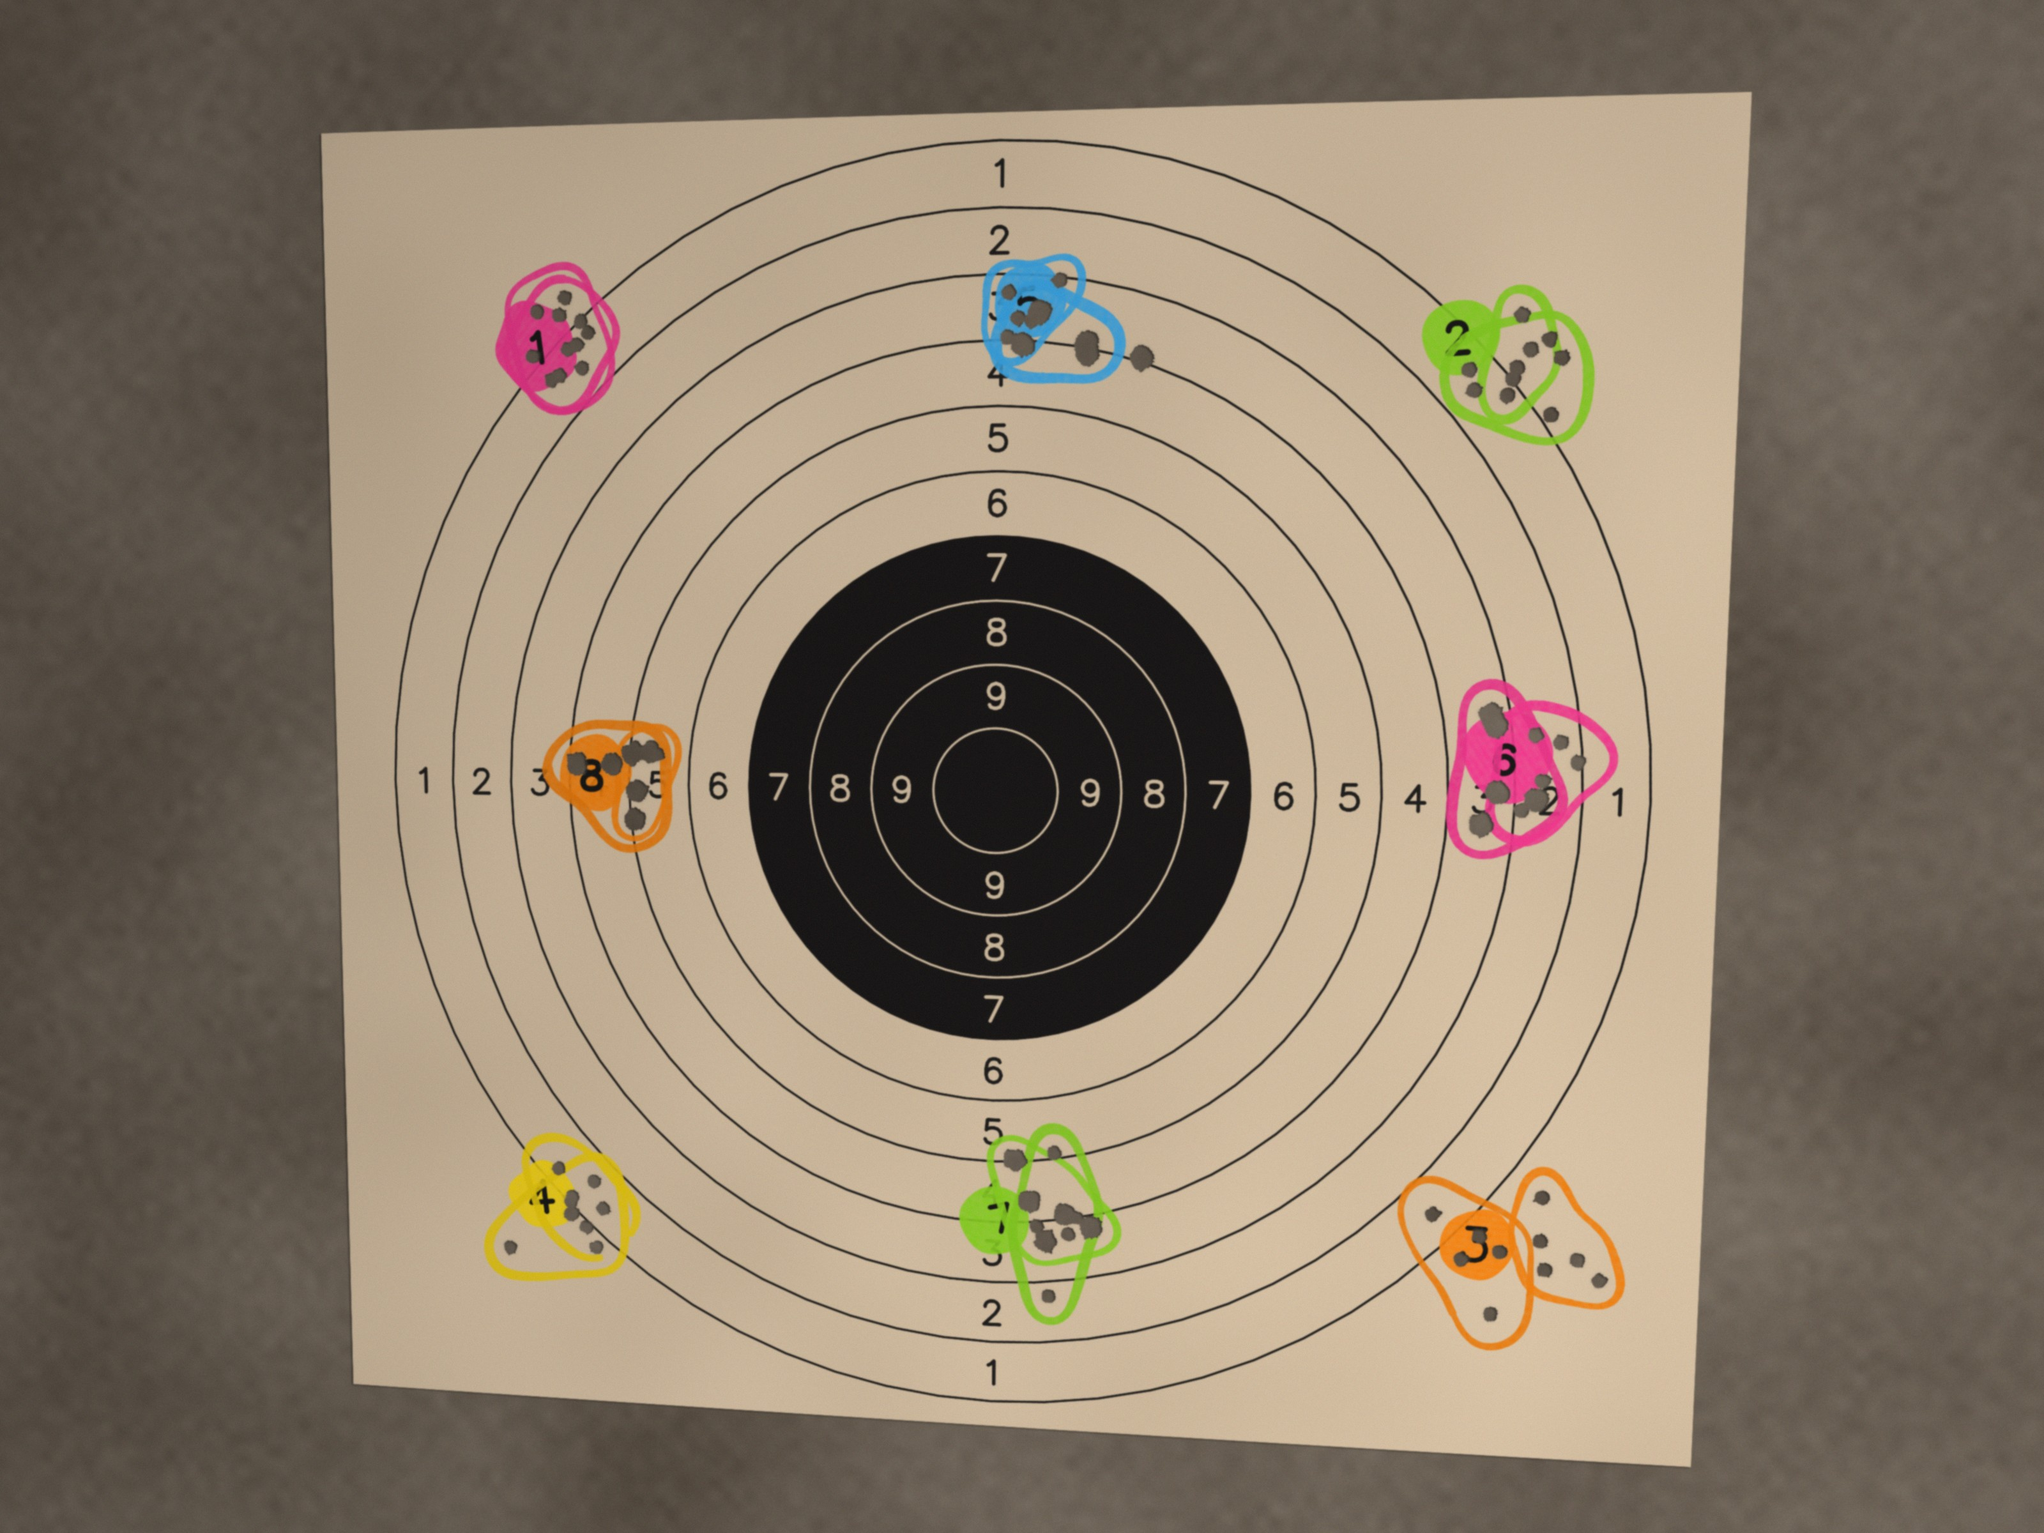
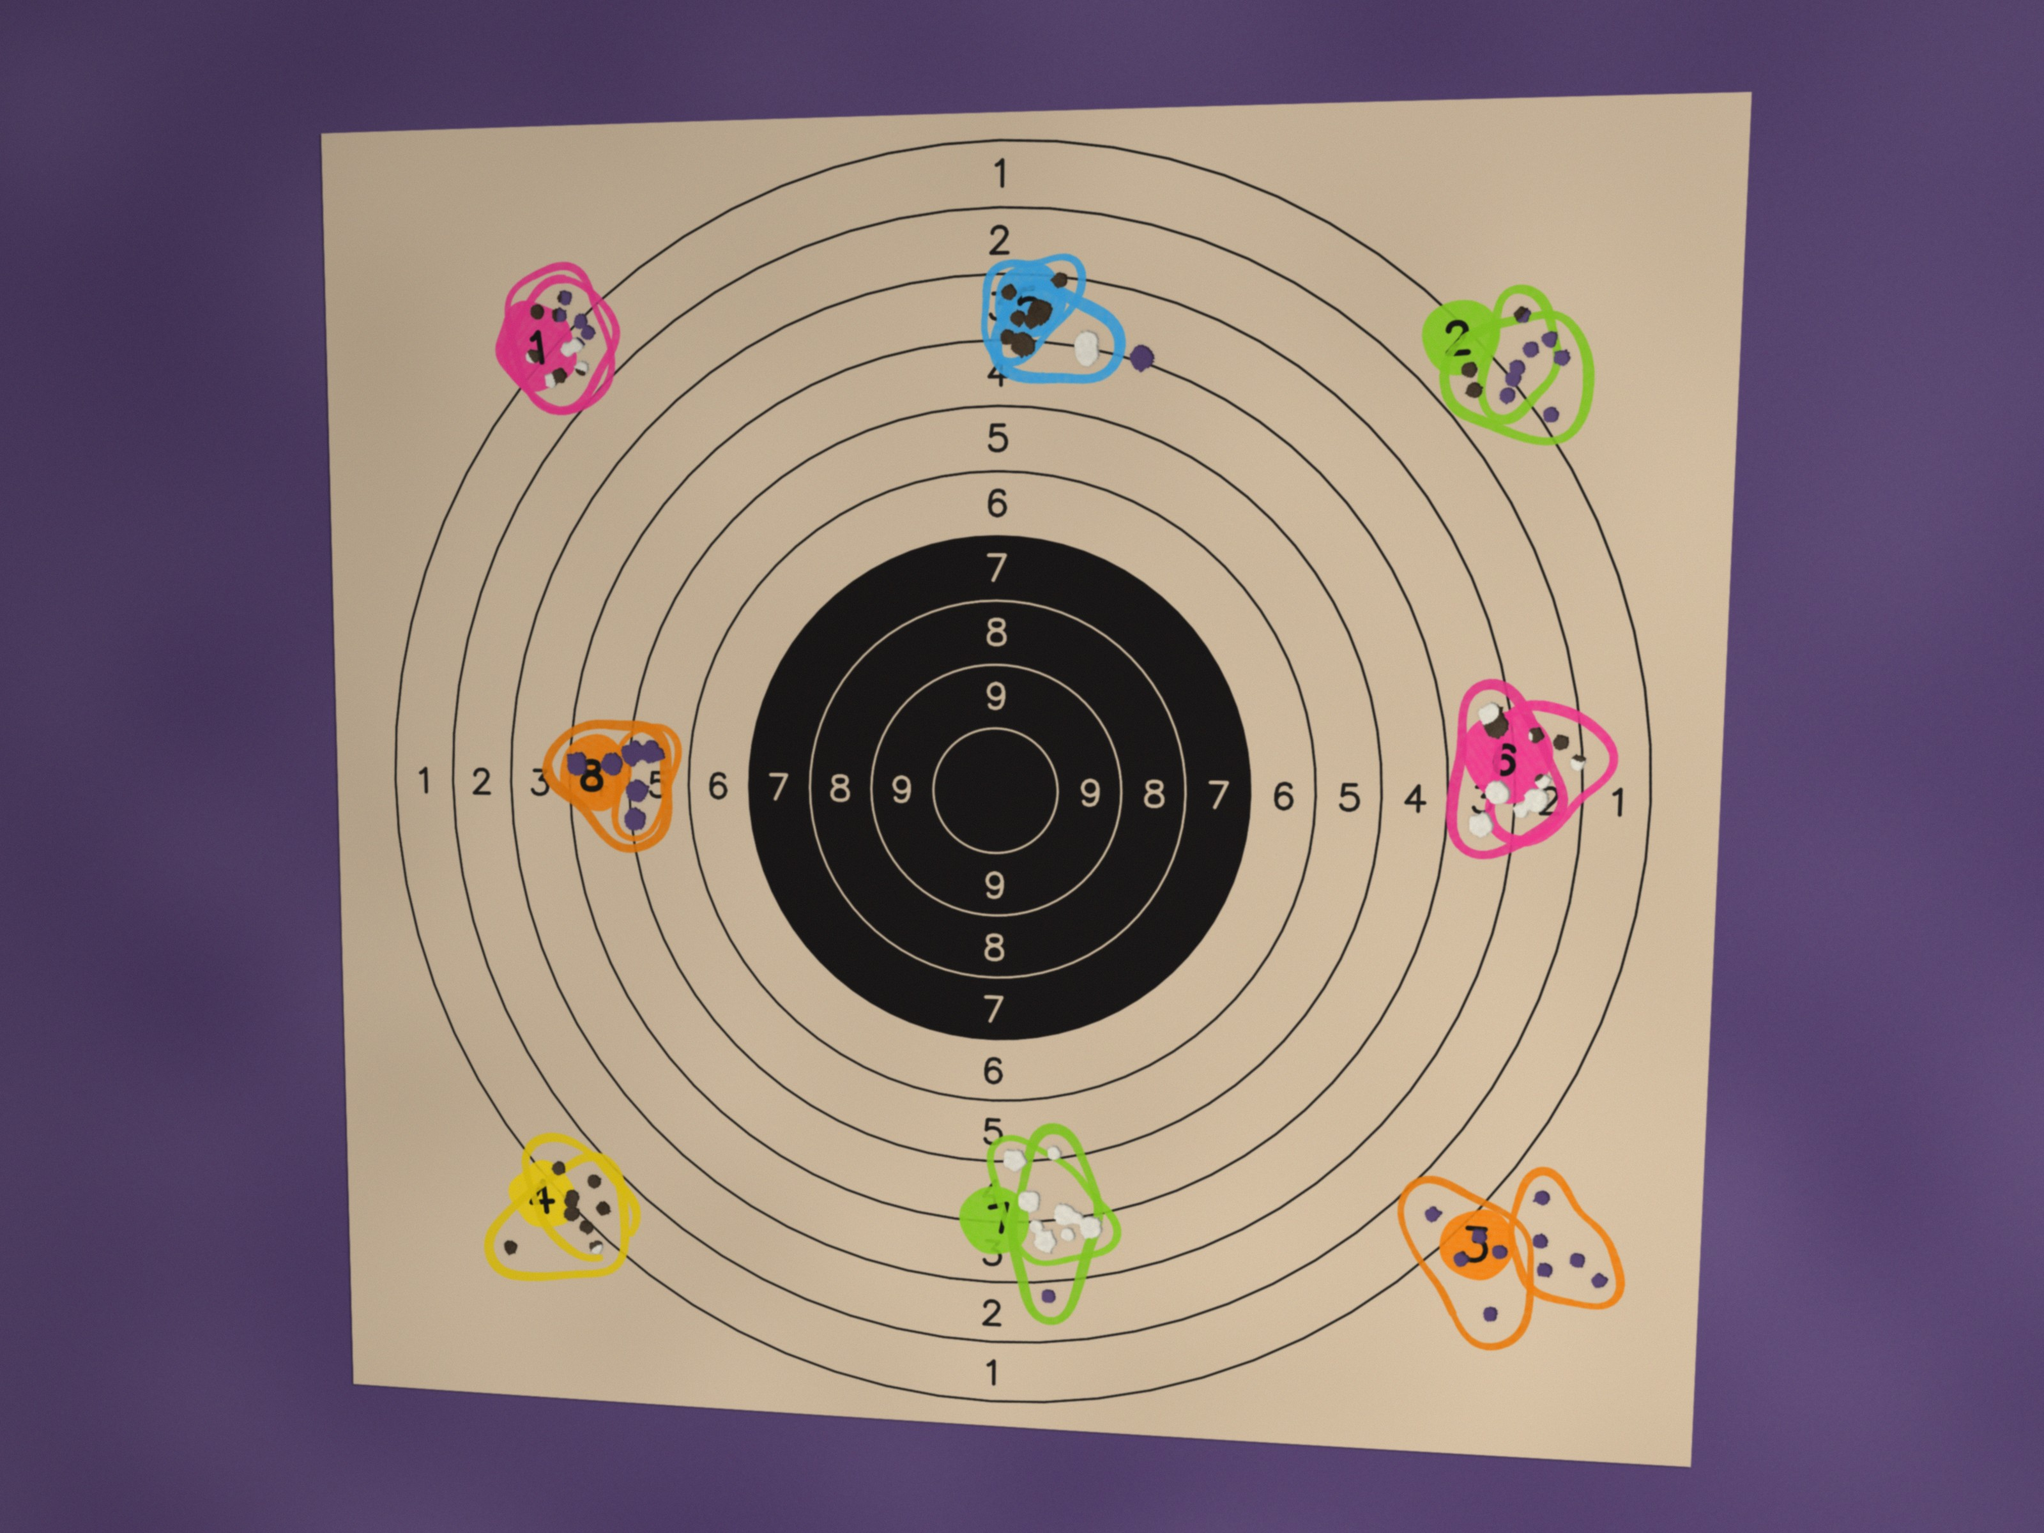
Synthetic backing: purple board shot out to white foam or dirt
The owner described the range backing: a purple board, often shot out so a
hole shows white styrofoam or the dirt behind. Holes over foam are lighter
than the paper. Presets mix the three (easy: one per session; realistic: big
patches; hard: small patches). Fixed set and contact sheets regenerated;
SPEC and CLAUDE.md updated.

Claude-Session: https://claude.ai/code/session_01P2REbFBBUkcMQaersuTocd

diff --git a/tools/rangetools/synth/render.py b/tools/rangetools/synth/render.py
@@ -244,18 +244,70 @@ def hole_outline(c: np.ndarray, r: float, rng: np.random.Generator, n: int = 72)
 
 
 class Backing:
-    """The board behind the card, in card mm, big enough to fill any photo."""
+    """What's behind the card, in card mm, big enough to fill any photo.
+
+    A purple board, shot out in patches to white styrofoam or, further, to
+    dirt (docs/SPEC.md). Patches are fixed for the session, so a hole shows
+    the same thing in every photo. `kind_at` says which of the three is at a
+    point, for tests and reports.
+    """
 
     PPM = 2.5
     HALF_MM = 800.0
+    EDGE_MM = 15.0  # patches stay this far inside the paper edge, so the frame round the card is board
 
-    def __init__(self, seed: int):
+    def __init__(self, seed: int, mix=(1.0, 0.0, 0.0), patch_mm: float = 120.0, uniform: bool = False,
+                 card_half_mm: tuple[float, float] = (275.0, 260.0)):
+        self.card_half_mm = card_half_mm
         rng = np.random.default_rng([seed, 200])
         n = int(2 * self.HALF_MM * self.PPM)
-        base = np.array(bgr(style.BACKING), np.float32)
-        tex = _noise_field(rng, (n, n), 150) * 9.0 + _noise_field(rng, (n, n), 12) * 4.0
-        tex += rng.normal(0, 2.0, (n, n)).astype(np.float32)
-        self.rgb = np.clip(base[None, None, :] + tex[..., None], 0, 255).astype(np.uint8)
+        w = np.asarray(mix, float) / sum(mix)
+        if uniform:
+            kinds = np.zeros((n, n), np.uint8)
+            kinds[self._behind_card(n)] = int(rng.choice(3, p=w))
+        else:
+            kinds = self._patches(rng, n, w, patch_mm)
+        self.kinds = kinds
+        tex = {
+            0: _noise_field(rng, (n, n), 150) * 6.0 + rng.normal(0, 2.0, (n, n)),       # painted board
+            1: _noise_field(rng, (n, n), 4) * 5.0 + rng.normal(0, 4.0, (n, n)),          # foam beads
+            2: _noise_field(rng, (n, n), 20) * 12.0 + rng.normal(0, 5.0, (n, n)),        # dirt
+        }
+        cols = [style.BACKING_BOARD, style.BACKING_FOAM, style.BACKING_DIRT]
+        rgb = np.zeros((n, n, 3), np.float32)
+        for k in range(3):
+            m = kinds == k
+            if m.any():
+                rgb[m] = np.array(bgr(cols[k]), np.float32) + tex[k][m][:, None]
+        # Soft, dark-ish torn edge where the board stops (a little depth).
+        edge = cv2.morphologyEx((kinds == 0).astype(np.uint8), cv2.MORPH_GRADIENT, np.ones((3, 3), np.uint8))
+        rgb *= (1 - 0.25 * cv2.GaussianBlur(edge.astype(np.float32), (0, 0), 1.0))[..., None]
+        self.rgb = np.clip(rgb, 0, 255).astype(np.uint8)
+
+    def _patches(self, rng, n: int, w: np.ndarray, patch_mm: float) -> np.ndarray:
+        cell = max(4, int(patch_mm * self.PPM / 2))
+        shot = _noise_field(rng, (n, n), cell) + 0.25 * _noise_field(rng, (n, n), max(2, cell // 6))
+        deep = _noise_field(rng, (n, n), cell) + 0.25 * _noise_field(rng, (n, n), max(2, cell // 6))
+        behind = self._behind_card(n)
+        kinds = np.zeros((n, n), np.uint8)
+        # Board where `shot` is lowest, then foam, and dirt where the deepest damage is.
+        t_board = np.quantile(shot[behind], w[0]) if w[0] > 0 else -np.inf
+        out = behind & (shot > t_board)
+        kinds[out] = 1
+        if w[2] > 0 and out.any():
+            share = w[2] / max(w[1] + w[2], 1e-9)
+            t_dirt = np.quantile(deep[out], 1 - share)
+            kinds[out & (deep > t_dirt)] = 2
+        return kinds
+
+    def _behind_card(self, n: int) -> np.ndarray:
+        c = np.arange(n) / self.PPM - self.HALF_MM
+        hx, hy = self.card_half_mm[0] - self.EDGE_MM, self.card_half_mm[1] - self.EDGE_MM
+        return (np.abs(c)[None, :] < hx) & (np.abs(c)[:, None] < hy)
 
     def to_px(self, x_mm, y_mm):
         return (x_mm + self.HALF_MM) * self.PPM, (self.HALF_MM - y_mm) * self.PPM
+
+    def kind_at(self, x_mm: float, y_mm: float) -> str:
+        u, v = self.to_px(x_mm, y_mm)
+        return style.BACKINGS[int(self.kinds[int(v), int(u)])]

diff --git a/tools/rangetools/synth/presets.py b/tools/rangetools/synth/presets.py
@@ -49,6 +49,13 @@ class Preset:
     loop_stroke_mm: Range            # paint marker width
     open_loop_prob: float            # loop not quite closed
 
+    # --- Backing (what shows through the holes; see docs/SPEC.md) ----------
+    # Share of the area behind the card that is purple board, white foam and
+    # dirt. With backing_uniform one of the three, picked by the seed, fills it.
+    backing_mix: tuple[float, float, float]
+    backing_patch_mm: float          # typical size of a shot-out patch
+    backing_uniform: bool
+
     # --- Phone photo --------------------------------------------------------
     image_sizes: tuple[tuple[int, int], ...]   # (width, height) choices
     card_fill: Range                 # card size as a share of the frame
@@ -74,10 +81,11 @@ EASY = Preset(
     invisible_prob=0.0, fired_mismatch_prob=0.0, unlooped_flyer_prob=0.0,
     distances_m=((12.0, 1.0),), calibres=(("9mm", 9.0, 1.0),),
     loop_margin_mm=(6.0, 9.0), loop_wobble_mm=1.5, loop_stroke_mm=(3.0, 3.5), open_loop_prob=0.0,
+    backing_mix=(1.0, 1.0, 1.0), backing_patch_mm=150.0, backing_uniform=True,
     image_sizes=((3200, 2400),), card_fill=(0.85, 0.9), centre_offset=0.02,
     rotation_deg=2.0, tilt_deg=3.0, curl_mm=(0.0, 1.0), lighting_min=(0.9, 0.97),
     blur_sigma_px=(0.3, 0.6), noise_sigma=(1.0, 2.0), jpeg_quality=(92, 95), white_balance=0.01,
-    notes="Square-on photos, even light, tight groups well apart, no awkward shots.",
+    notes="Square-on photos, even light, tight groups well apart, no awkward shots, one backing behind the whole card.",
 )
 
 REALISTIC = Preset(
@@ -90,6 +98,7 @@ REALISTIC = Preset(
     distances_m=((12.0, 0.85), (25.0, 0.15)),
     calibres=(("9mm", 9.0, 0.8), (".22LR", 5.6, 0.2)),
     loop_margin_mm=(3.0, 8.0), loop_wobble_mm=3.0, loop_stroke_mm=(2.0, 4.0), open_loop_prob=0.03,
+    backing_mix=(0.3, 0.45, 0.25), backing_patch_mm=120.0, backing_uniform=False,
     image_sizes=((3200, 2400),), card_fill=(0.78, 0.9), centre_offset=0.04,
     rotation_deg=8.0, tilt_deg=10.0, curl_mm=(0.0, 4.0), lighting_min=(0.7, 0.92),
     blur_sigma_px=(0.5, 1.2), noise_sigma=(2.0, 4.0), jpeg_quality=(82, 92), white_balance=0.04,
@@ -106,10 +115,11 @@ HARD = Preset(
     distances_m=((12.0, 0.7), (25.0, 0.3)),
     calibres=(("9mm", 9.0, 0.55), (".22LR", 5.6, 0.25), (".45ACP", 11.4, 0.2)),
     loop_margin_mm=(1.5, 7.0), loop_wobble_mm=4.0, loop_stroke_mm=(1.5, 4.5), open_loop_prob=0.15,
+    backing_mix=(0.25, 0.4, 0.35), backing_patch_mm=50.0, backing_uniform=False,
     image_sizes=((3200, 2400), (2400, 3200)), card_fill=(0.7, 0.92), centre_offset=0.06,
     rotation_deg=20.0, tilt_deg=18.0, curl_mm=(2.0, 8.0), lighting_min=(0.5, 0.8),
     blur_sigma_px=(1.0, 2.0), noise_sigma=(4.0, 7.0), jpeg_quality=(70, 85), white_balance=0.08,
-    notes="Hurried photos, poor light, big overlapping groups, flyers, open loops, mixed calibres.",
+    notes="Hurried photos, poor light, big overlapping groups, flyers, open loops, mixed calibres, small backing patches so neighbouring holes differ.",
 )
 
 PRESETS: dict[str, Preset] = {p.name: p for p in (EASY, REALISTIC, HARD)}

diff --git a/tools/tests/test_synth.py b/tools/tests/test_synth.py
@@ -116,16 +116,17 @@ def test_generated_photo_shows_holes_where_the_truth_says(tmp_path):
     last = photos[-1]
     gt = groundtruth.read(last.json_path)
     assert gt.round == 1 and len(gt.new_shots()) == sum(g.fired_shots for g in gt.groups)
-    img = cv2.imread(str(last.image_path)).astype(float).mean(axis=2)
-    base = cv2.imread(str(photos[0].image_path)).astype(float).mean(axis=2)
-    assert img.shape == (gt.image.height_px, gt.image.width_px)
+    img = cv2.imread(str(last.image_path)).astype(float)
+    base = cv2.imread(str(photos[0].image_path)).astype(float)
+    assert img.shape == (gt.image.height_px, gt.image.width_px, 3)
     aims = [(_pt(a.centre_mm), a.diameter_mm / 2) for a in gt.aim_points]
 
     def patch(photo, image, c):
         u, v = photo.camera.project(c[0], c[1])
-        return image[int(v) - 2 : int(v) + 3, int(u) - 2 : int(u) + 3].mean()
+        return image[int(v) - 2 : int(v) + 3, int(u) - 2 : int(u) + 3].reshape(-1, 3).mean(axis=0)
 
     checked = 0
+    kinds = Counter()
     for s in gt.new_shots():
         c = _pt(s.centre_mm)
         if s.invisible or math.hypot(*c) < GEO.black_diameter_mm / 2 + 8:
@@ -133,10 +134,30 @@ def test_generated_photo_shows_holes_where_the_truth_says(tmp_path):
         if any(np.linalg.norm(c - a) < ar + 1.5 for a, ar in aims):
             continue  # centre on a red sticker
         before, after = patch(photos[0], base, c), patch(last, img, c)
-        # Same spot on the card: beige paper before, darker backing after.
-        assert after + 25 < before, f"{s.id}: before {before:.0f}, after {after:.0f}"
+        # Same spot on the card: beige paper before, the backing (board, foam or dirt) after.
+        # White foam behind beige paper is the weakest change (about 30 levels).
+        change = float(np.linalg.norm(after - before))
+        assert change > 18, f"{s.id} over {last.backing.kind_at(*c)}: colour changed by only {change:.0f}"
+        kinds[last.backing.kind_at(*c)] += 1
         checked += 1
     assert checked >= 5
+    assert len(kinds) >= 2, f"realistic holes should show more than one backing, got {dict(kinds)}"
+
+
+def test_backing_mix_follows_the_preset():
+    from rangetools.synth.render import Backing
+
+    real = presets.get("realistic")
+    b = Backing(4, real.backing_mix, real.backing_patch_mm, real.backing_uniform)
+    n = b.kinds.shape[0]
+    c = np.arange(n) / b.PPM - b.HALF_MM
+    behind = (np.abs(c)[None, :] < 250) & (np.abs(c)[:, None] < 235)
+    share = np.bincount(b.kinds[behind], minlength=3) / behind.sum()
+    assert np.allclose(share, np.array(real.backing_mix) / sum(real.backing_mix), atol=0.05)
+    assert b.kind_at(0, 400) == "board"  # the frame round the card is board
+    easy = presets.get("easy")
+    u = Backing(4, easy.backing_mix, easy.backing_patch_mm, easy.backing_uniform)
+    assert len(set(u.kinds[behind].ravel().tolist())) == 1
 
 
 def test_fixed_set_is_checked_in_and_matches_the_generator():

diff --git a/tools/rangetools/synth/session.py b/tools/rangetools/synth/session.py
@@ -28,6 +28,7 @@ FIXED_SET: list[tuple[str, int, str | None]] = [
 @dataclass
 class Photo:
     round: int
+    backing: Backing
     image_path: Path
     json_path: Path
     truth: GroundTruth
@@ -52,7 +53,8 @@ def generate(preset_name: str, seed: int, out_root: Path, aim_style: str | None 
     folder.mkdir(parents=True, exist_ok=True)
 
     card = FlatCard(geo, seed)
-    backing = Backing(seed)
+    backing = Backing(seed, preset.backing_mix, preset.backing_patch_mm, preset.backing_uniform,
+                      (geo.paper_width_mm / 2, geo.paper_height_mm / 2))
     for aim in plan.aim_points:
         card.draw_aim_point(aim, plan.shape_seeds[f"aim{aim.number}"])
 
@@ -87,5 +89,5 @@ def generate(preset_name: str, seed: int, out_root: Path, aim_style: str | None 
         )
         json_path = folder / f"{name}.json"
         write_gt(gt, json_path)
-        photos.append(Photo(r, img_path, json_path, gt, cam))
+        photos.append(Photo(r, backing, img_path, json_path, gt, cam))
     return plan, photos

diff --git a/tools/rangetools/synth/style.py b/tools/rangetools/synth/style.py
@@ -16,10 +16,14 @@ PRINT_ON_BLACK = "#D9C7B0" # ring lines and numbers inside the black (paper show
 RING_LINE_MM = 0.6
 NUMBER_HEIGHT_MM = 12.0
 
-# What shows through a hole. The real range backing is not known yet; this is a
-# mid-dark grey-brown board, so holes look darker than the paper and lighter
-# than the black, as on the real test photo. Change it here once known.
-BACKING = "#6E655C"
+# What shows through a hole (owner, 2026-11-21): the range board is purple,
+# but it is often shot out, and then the white styrofoam behind it shows, or
+# where that is gone too, the dirt behind. So a hole can show any of the three,
+# and on white foam a hole is lighter than the paper, not darker.
+BACKING_BOARD = "#5E4A7E"   # purple board
+BACKING_FOAM = "#ECEBE5"    # white styrofoam
+BACKING_DIRT = "#4A3E33"    # dirt
+BACKINGS = ("board", "foam", "dirt")
 
 # Torn paper fibres round a hole edge.
 HOLE_RIM = "#8F8A84"

diff --git a/tools/README.md b/tools/README.md
@@ -26,10 +26,10 @@ python -m rangetools.synth contact-sheet ../test_data/synthetic/hard_mixed_s0303
 | --- | --- |
 | `presets.py` | `easy`, `realistic`, `hard`: ranges for the plan, the shooting, the marking and the photo. |
 | `plan.py` | Aim points, groups, shots (scatter, flyers, double holes, shots through older holes, hidden shots, one more/fewer than planned) and loops, all in card mm. No drawing. |
-| `render.py` | The flat card at 8 px/mm: paper texture, rings and numbers, aim points (red stickers or hand-drawn circles with handwritten numbers), ragged holes, loops. The backing board is a separate layer, so holes show the same board in every photo. |
+| `render.py` | The flat card at 8 px/mm: paper texture, rings and numbers, aim points (red stickers or hand-drawn circles with handwritten numbers), ragged holes, loops. What's behind the card (purple board, shot out in patches to white foam or dirt) is a separate layer, so a hole shows the same thing in every photo. |
 | `photo.py` | Pinhole camera with tilt, turn, off-centre framing and paper curl; uneven light, white-balance drift, blur, noise, JPEG. |
 | `session.py` | Puts it together and writes images + ground-truth JSON. `FIXED_SET` lists the checked-in sessions. |
 | `contact.py` | Contact sheet: every photo, plus a copy with the answers drawn on. |
-| `style.py` | Colours. `BACKING` is a placeholder until the real range backing is known. |
+| `style.py` | Colours, including the three backings. |
 
 Every random choice comes from the seed, through separate streams per purpose, so the same preset and seed always give the same session.

diff --git a/CLAUDE.md b/CLAUDE.md
@@ -16,7 +16,7 @@ An Android app that turns phone photos of a marked paper pistol target into per-
   - 10-ring diameter 50 mm; each further ring adds 50 mm of diameter (25 mm of radius). Ring n diameter = 50 + (10 − n) × 50 mm, so the 1-ring is 500 mm and the black (7-ring) is 200 mm.
   - Verify against the ISSF rulebook before relying on tolerances.
 - Guns are club loaners (most often a CZ Shadow 2), with iron sights or a red dot. Calibre and ammunition vary.
-- Photos are taken by walking downrange to the card. **The backing behind the card is always the same.** One target phone (a current flagship Android phone with a good main camera).
+- Photos are taken by walking downrange to the card. Behind the card is a purple board, often shot out so a hole shows white styrofoam or dirt instead; it varies across the card but stays put between photos, and holes over white foam are lighter than the paper. One target phone (a current flagship Android phone with a good main camera).
 - The owner marks groups with coloured paint-marker loops after each mark round. The app diffs consecutive photos to work out which new holes belong to which new loop. See `docs/SPEC.md` for the marking convention.
 - Speed and timing are **never measured**. Cadence is a label the shooter declares.
 
